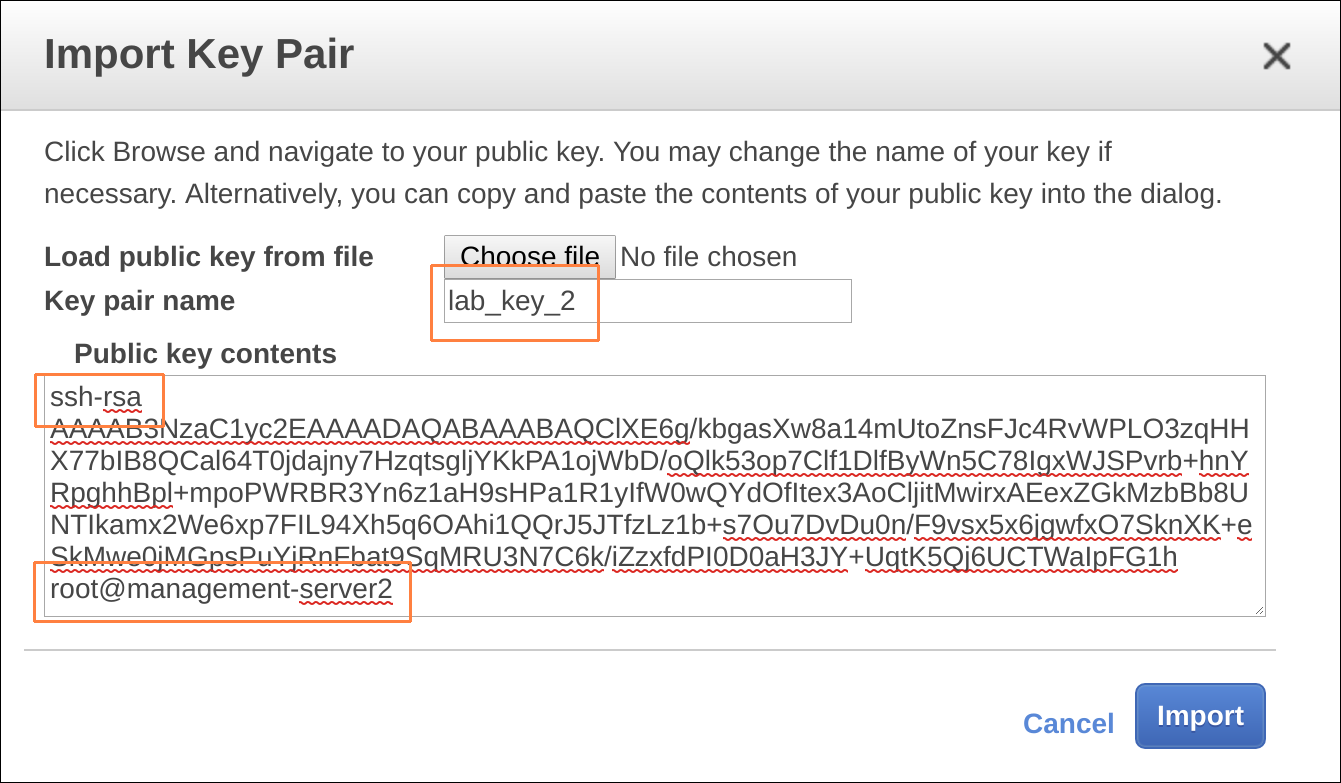
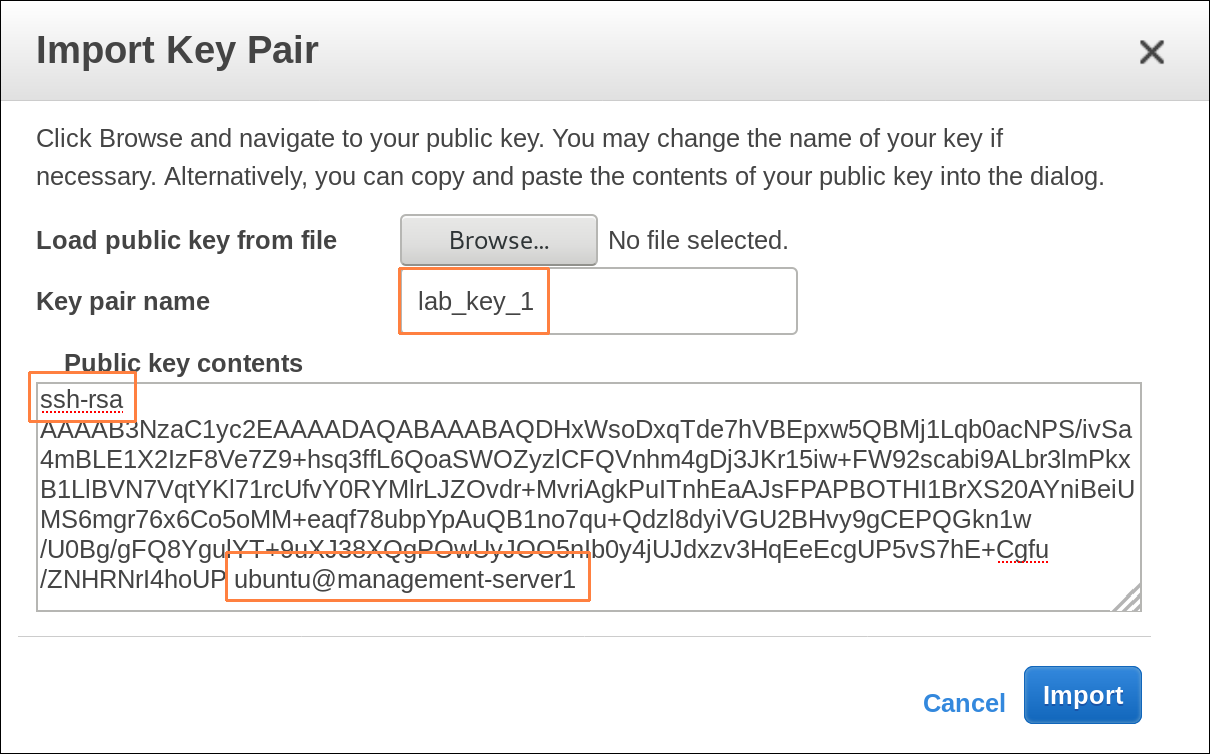
management restriction addition

diff --git a/Lab 1 - AWS Console and EC2/README.md b/Lab 1 - AWS Console and EC2/README.md
@@ -28,18 +28,13 @@ AWS provides many different Cloud services, of which we'll only see a small hand
 Amazon Web Services does not allow default password access to new EC2 Instances. Instead, everything is done with key pairs, which is very safe (if used correctly) and not very difficult once you get the hang of it.
 The key pair consists of a public and private key. The public key is put onto a remote server and the private key is used to log in to these servers.
 
-1. `sudo su -`
-    * Switch to be superuser or root. Your prompt will turn red.
 1. `ssh-keygen` (Press `Enter` a couple of times without filling in anything until your prompt returns.)
     * Generate a key pair.
 1. `ls -l ~/.ssh/`
-    * Look at the key pair. The private key is `id_rsa`, the public key is `id_rsa.pub` and they're located under your current user home's .ssh directory `/root/.ssh/`.
+    * Look at the key pair. The private key is `id_rsa`, the public key is `id_rsa.pub` and they're located under your current user home's .ssh directory `/home/ubuntu/.ssh/`.
     * Note that the private key's permissions (-rw-------) are stricter than the public key's permissions (-rw-r--r--). 
     
-    > **ubuntu**@management-server:~$ **sudo su -**
-    >
-    >
-    > **root**@management-server:~$ **ssh-keygen**
+    > *ubuntu@management-server1:~$* **ssh-keygen**
     >
     > Generating public/private rsa key pair.
     >
@@ -49,33 +44,29 @@ The key pair consists of a public and private key. The public key is put onto a 
     >
     > Enter same passphrase again:
     >
-    > Your **identification** has been saved in **/root/.ssh/id_rsa**.
+    > Your **identification** has been saved in **/home/ubuntu/.ssh/id_rsa**.
     >
-    > Your **public key** has been saved in **/root/.ssh/id_rsa.pub**.
+    > Your **public key** has been saved in **/home/ubuntu/.ssh/id_rsa.pub**.
     >
     > The key fingerprint is:
     >
-    > SHA256:E2C2C+Jho1+VdPLUqXLhKFD9e6PZGTe1ATpV6CNbOq8 root@management-server
+    > SHA256:E2C2C+Jho1+VdPLUqXLhKFD9e6PZGTe1ATpV6CNbOq8 ubuntu@management-server1
     >
     > The key's randomart image is:
     >
     >...
     >
-    > ((((RANDOM ART))))
+    > [RANDOM ART]
     >
     >...
     >
-    > root@management-server:~$ **ls -l ~/.ssh/**
+    > *ubuntu@management-server1:~$* **ls -l ~/.ssh/**
     >
-    > total 12
+    > -rw------- 1 ubuntu ubuntu  554 Dec 22 12:21 authorized_keys
     >
-    > -rw------- 1 root root  554 Dec 22 12:21 authorized_keys
+    > **-rw-------** 1 ubuntu ubuntu 1679 Dec 22 13:12 **id_rsa** 
     >
-    > **-rw-------** 1 root root 1679 Dec 22 13:12 **id_rsa** 
-    >
-    > **-rw-r--r--** 1 root root  404 Dec 22 13:12 **id_rsa.pub**
-    >
-    > root@management-server:~$
+    > **-rw-r--r--** 1 ubuntu ubuntu  404 Dec 22 13:12 **id_rsa.pub**
 
 ### 2. Import public key in AWS ###
 We then need to import this public key into AWS so we can link Instances to this key and log in to the Instances with the private key.
@@ -139,7 +130,7 @@ Let's log in to our EC2 Instance from the management EC2 Instance using our own 
 1. Accept the fingerprint by entering `yes`.
 1. Once you see a green prompt you've logged in your new instance.
 
-    >root@**management-server**:~$ **ls ~/.ssh**
+    >ubuntu@*management-server1*:~$ **ls ~/.ssh**
     >
     >authorized_keys  
     >
@@ -148,7 +139,7 @@ Let's log in to our EC2 Instance from the management EC2 Instance using our own 
     >id_rsa.pub
     >
     >
-    >root@**management-server**:~$ **ssh -i ~/.ssh/id_rsa ubuntu@18.218.40.45**
+    >ubuntu@*management-server1*:~$ **ssh -i ~/.ssh/id_rsa ubuntu@18.218.40.45**
     >
     >The authenticity of host '18.218.40.45 (18.218.40.45)' can't be established.
     >ECDSA key fingerprint is SHA256:XltK5+RljF2cuUGG4bnB4b6SQ/UM1CSN5QONehFhynE.
@@ -182,12 +173,12 @@ Let's log in to our EC2 Instance from the management EC2 Instance using our own 
     >See "man sudo_root" for details.
     >
     >
-    >ubuntu@**ip-172-31-25-78:~$**
+    >ubuntu@*ip-172-31-25-78*:~$
 
 ## End of Lab 1 ##
 Congratulations! You're logged in to your own created EC2 Instance.
 
-To update your score, `exit` to your management instance and run this command `/.checkScore.sh`, then log back in to your own instance `ssh -i ~/.ssh/id_rsa ubuntu@<public IP-address>`.
+To update your score, `exit` to your management instance and run this command `sudo checkscore`, then log back in to your own instance `ssh -i ~/.ssh/id_rsa ubuntu@<public IP-address>`.
 
 ![](../Images/EC2RunScoringScript.png?raw=true)
 

diff --git a/Lab 4 - ELB/README.md b/Lab 4 - ELB/README.md
@@ -121,7 +121,7 @@ To show both instances are actually being used by the Load Balancer we'll change
 ## End of Lab 4 ##
 Congratulations! You've successfully created a second instance and load balanced its network load using an AWS Elastic Load Balancer.
 
-To update your score, `exit` to your management instance and run this command `/.checkScore.sh`, then log back in to your own instance `ssh -i ~/.ssh/id_rsa ubuntu@<public IP-address>`.
+To update your score, `exit` to your management instance and run this command `sudo checkscore`, then log back in to your own instance `ssh -i ~/.ssh/id_rsa ubuntu@<public IP-address>`.
 
 Once you have two Instances, both connected to the same Load Balancer and DynamoDB, you may continue to the next lab. ([Next lab](../Lab%205%20-%20S3))
 

diff --git a/Lab 3 - DynamoDB/README.md b/Lab 3 - DynamoDB/README.md
@@ -75,7 +75,7 @@ After you created a new meme we can go to DynamoDB and see the added record.
 ## End of Lab 3 ##
 Congratulations! You've successfully switched to using an AWS DynamoDB database instead of your local MongoDB.
 
-To update your score, `exit` to your management instance and run this command `/.checkScore.sh`, then log back in to your own instance `ssh -i ~/.ssh/id_rsa ubuntu@<public IP-address>`.
+To update your score, `exit` to your management instance and run this command `sudo checkscore`, then log back in to your own instance `ssh -i ~/.ssh/id_rsa ubuntu@<public IP-address>`.
 
 Once your MemeGen application works and your remote DynamoDB receives records, you can continue to the [next lab](../Lab%204%20-%20ELB).
 

diff --git a/Lab 2 - Manual installation (Infra 0.0)/README.md b/Lab 2 - Manual installation (Infra 0.0)/README.md
@@ -197,7 +197,7 @@ The database will save the id (id), image name (name) and date of creation (date
 ## End of Lab 2 ##
 Congratulations! You've successfully installed a 'LinuxApacheMongoPhp' application!
 
-To update your score, `exit` to your management instance and run this command `/.checkScore.sh`, then log back in to your own instance `ssh -i ~/.ssh/id_rsa ubuntu@<public IP-address>`.
+To update your score, `exit` to your management instance and run this command `sudo checkscore`, then log back in to your own instance `ssh -i ~/.ssh/id_rsa ubuntu@<public IP-address>`.
 
 Once your MemeGen application works and your local MongoDB receives records, you can continue to the [next lab](../Lab%203%20-%20DynamoDB).
 

diff --git a/Lab 5 - S3/README.md b/Lab 5 - S3/README.md
@@ -65,7 +65,7 @@ Your instances are now linked to each other not only by database but also by fil
 ## End of Lab 5 ##
 Congratulations! You've successfully switched to using S3 as your storage device.
 
-To update your score, `exit` to your management instance and run this command `/.checkScore.sh`. You needn't log back into your own instances.
+To update your score, `exit` to your management instance and run this command `sudo checkscore`. You needn't log back into your own instances.
 
 Once you have two Instances, both connected to a Load Balancer, DynamoDB and S3, you may continue to the [next lab](../Lab%206%20-%20Route%2053).
 

diff --git a/Lab 7 - ASG and LC (infra 1.0)/README.md b/Lab 7 - ASG and LC (infra 1.0)/README.md
@@ -96,7 +96,7 @@ Feeling like the load on your servers is getting too high? We can easily add ano
 ## End of Lab 7 ##
 If not everything's working you may continue anyway, but normally you should have 2 autoscaling instances with the MemeGen application, which are both reachable via the Load Balancer and have DynamoDB and S3 as a backend.  
 
-Run this command on the management instance to update your score: `/.checkScore.sh`.
+Run this command on the management instance to update your score: `sudo checkscore`.
 
 Let's unleash the true power of infrastructure2.0 in the ([next lab](../Lab%208%20-%20Cloudformation%20(infra%202.0))).
 

diff --git a/Lab 8 - Cloudformation (infra 2.0)/README.md b/Lab 8 - Cloudformation (infra 2.0)/README.md
@@ -73,7 +73,7 @@ Let's see if our app works.
 ## End of Lab 8 ##
 Et voilà! This method is much easier, more consistent, readable and less prone to errors than doing everything manually. Our whole application is up and running in minutes without much effort. This is infrastructure2.0.
 
-Run this command on the management instance to update your score: `/.checkScore.sh`.
+Run this command on the management instance to update your score: `sudo checkscore`.
 
 Now let's try to break things in the last lab. ([To last lab](../Lab%209%20-%20Chaos%20Engineering)) 
 

diff --git a/Lab 6 - Route 53/README.md b/Lab 6 - Route 53/README.md
@@ -30,7 +30,7 @@ Using the randomly generated ELB URL isn't too user friendly. That's why the AWS
 ## End of Lab 6 ##
 Congratulations! You've successfully added a DNS record via Route53 to reach your website.
 
-Run this command on the management instance to update your score: `/.checkScore.sh`.
+Run this command on the management instance to update your score: `sudo checkscore`.
 
 Once you can reach both your instances via the Route53 records through the Load Balancer, you may continue to the [next lab](../Lab%207%20-%20ASG%20and%20LC%20(infra%201.0)).
 

diff --git a/Lab 9 - Chaos Engineering/README.md b/Lab 9 - Chaos Engineering/README.md
@@ -34,7 +34,7 @@ Now for deleting the Cloudformation Stack.
     * If the stack deletion fails, try again but do not check any boxes that could appear on this step, as doing so will skip the deletion of services. We don't want any stragglers, only total deletion.
     
 
-Run this command on the management instance to update your score: `/.checkScore.sh`.  
+Run this command on the management instance to update your score: `sudo checkscore`.  
 
 ![](https://tinyurl.com/y78fzwla)
 
